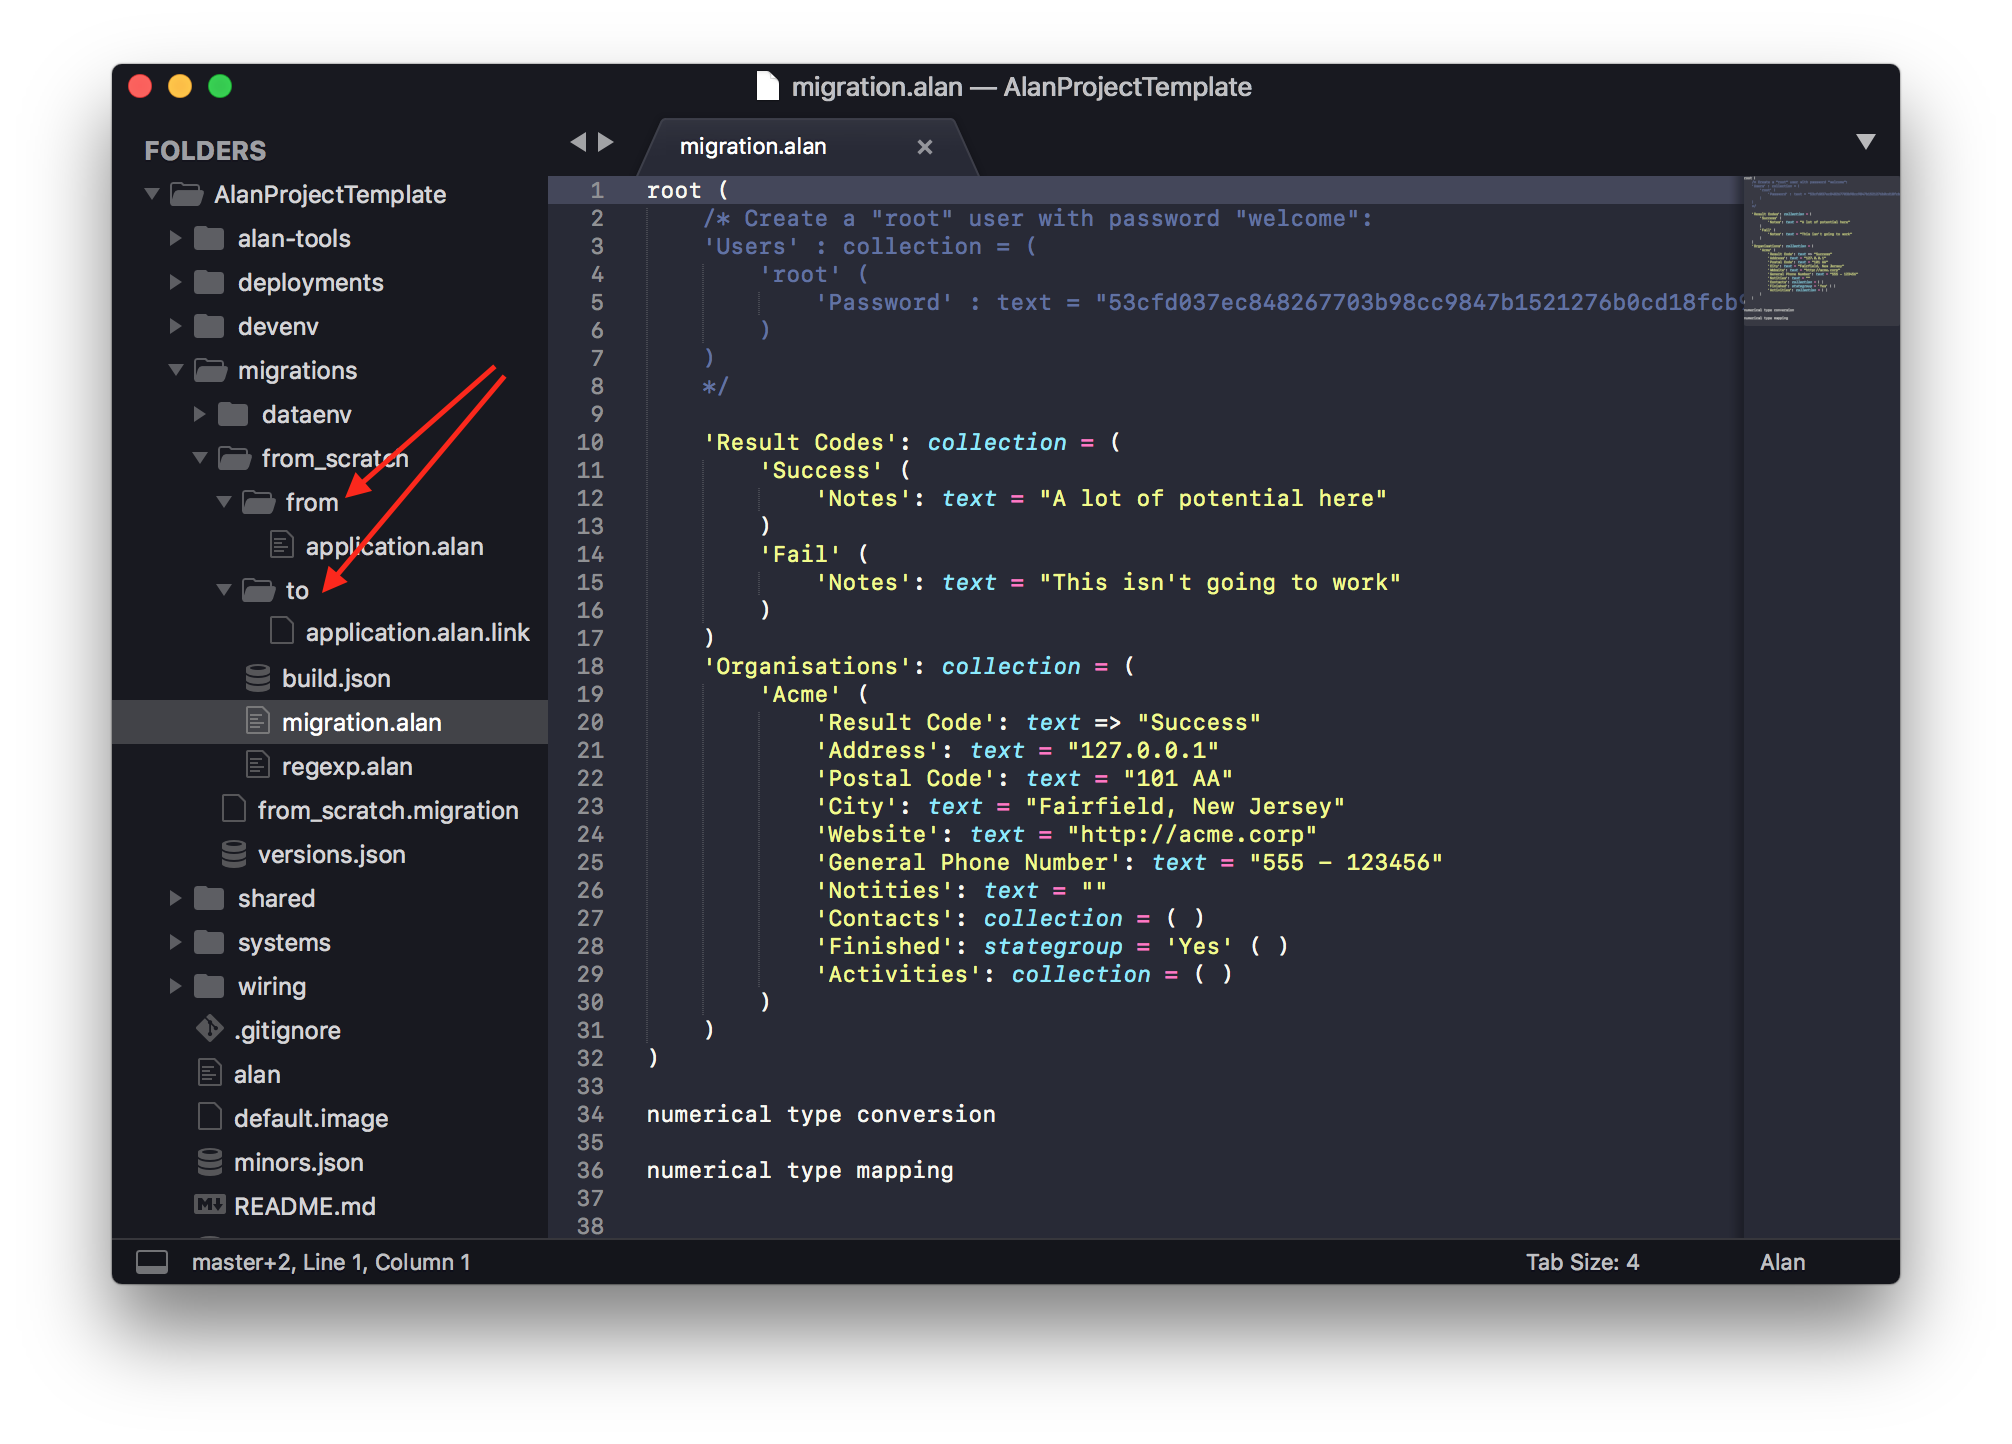
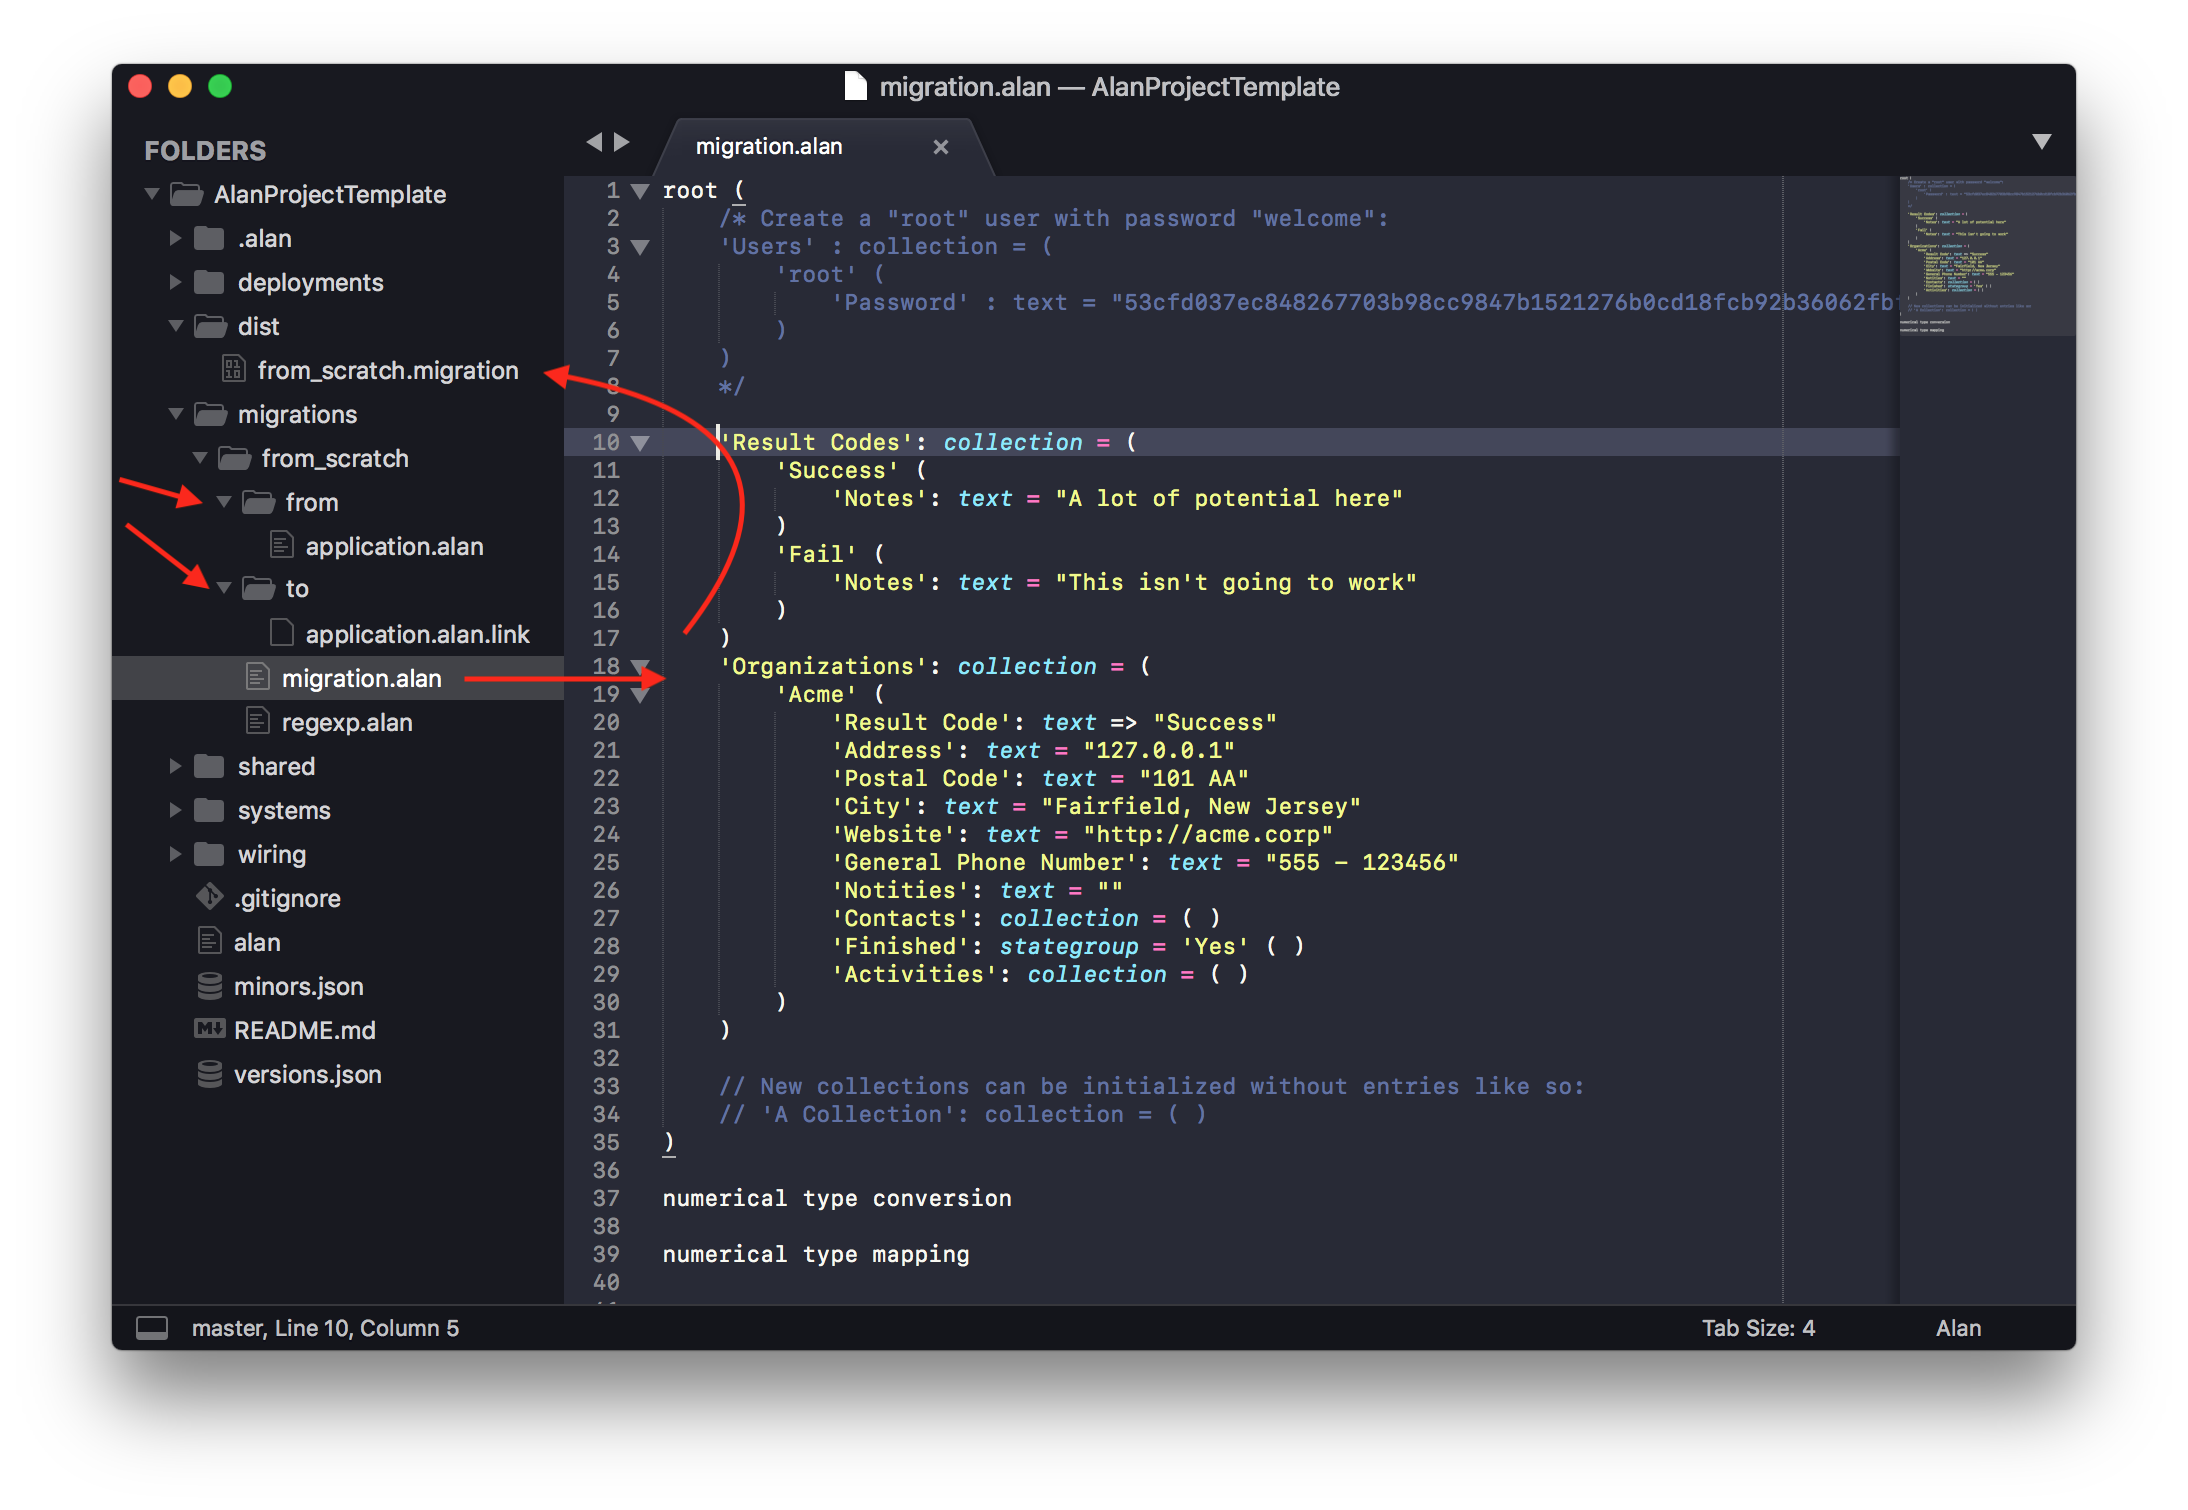
update migration docs

Changed region(s): [[0.0308, 0.0312, 0.9553, 0.9037], [0.339, 0.4363, 0.6779, 0.6856], [0.6779, 0.5921, 0.7087, 0.6233]]

diff --git a/pages/tuts/migration.md b/pages/tuts/migration.md
@@ -17,14 +17,14 @@ To start a server system, you need to feed it a valid initial dataset. To get th
 
 First build your project. This ensures you have a working application model to migrate to.
 
-In the template project we already set up a basic "from scratch" migration in the "migrations" folder. We'll continue working in that directory.
+In the template project we already set up a basic "from scratch" migration in the "migrations" folder.
 
 You'll notice two other folders, "to" and "from", which should contain the application models you're migrating between. "To" represents the current model, so it contains a file "application.alan.link" with a path to the model. 
 "From" represents an empty data set, so the "application.alan" file there has only the basic layout.
 
 ![](migration1.png)
 
-We can check our set up here works by running `alan build`. If it works it creates a new "from_scratch.migration" package file.
+We can check our set up here works by running `./alan build -C migrations`. If it works it creates a new "from_scratch.migration" package file in the dist directory.
 
 ![](migration2.png)
 
@@ -32,11 +32,11 @@ Now we're ready to start modifying the migration.alan file. In this file you map
 
 The template project defines initial entries and their values for the `Result Codes` and `Organizations` collections. You can try modifying those values to get a feel for it. 
 
-The migration language is part of the datastore system and its documentation can be found [here](http://127.0.0.1:4000/docs/#important-languages).
+The migration language is part of the datastore system and its documentation can be found [here](/docs/#important-languages).
 
 ## Users
 
-You can create as much data as you want, but usually it's easier to leave all collections empty. E.g `'Years': dictionary = { }`. Depending on the complexity and structure of your model, you probably end up with a very small migration.
+You can create as much data as you want, but usually it's easier to leave all collections empty. E.g `'Years': dictionary = ( )`. Depending on the complexity and structure of your model, you probably end up with a very small migration.
 
 If your model has users, you will need a first user to get into the application at all. To create this first user, we initialize the Users dictionary with a single entry "root", with the password "welcome". The following command provides us with the hashed (and lightly salted) password string:
 ```sh
@@ -45,19 +45,20 @@ echo -n "rootwelcome" | shasum -a 256
 
 The resulting initial Users dictionary for the Hours application looks like this:
 ```js
-'Users' : dictionary = {
-  'root' {
-    'Contracts' : dictionary = { }
+'Users' : collection = (
+  'root' (
+    'Contracts' : collection = ( )
     'Name' : text = ""
[1 lines of base64/hex data omitted]
-    'Roles' : group = {
-      'Employee' : stategroup = 'Yes' { }
-      'Manager' : stategroup = 'Yes' { }
-      'Project Manager' : stategroup = 'Yes' { }
-      'Reviewer' : stategroup = 'Yes' { }
-    }
-  }
-}
+    'Roles' : group = (
+      'Employee' : stategroup = 'Yes' ( )
+      'Manager' : stategroup = 'Yes' ( )
+      'Project Manager' : stategroup = 'Yes' ( )
+      'Reviewer' : stategroup = 'Yes' ( )
+    )
+  )
+)
+'Years' : collection = ( )
 ```
 
 ## Dry run
@@ -66,5 +67,5 @@ To test your migration in a "dry run", run the migration engine on a dataset (e.
 
 ```sh
 mkdir from_scratch/data/ && \
-./dataenv/system-types/datastore/tools/migration-engine from_scratch.migration < ../deployments/default/instances/server/instance.json > from_scratch/data/out.json
+./.alan/dataenv/system-types/datastore/tools/migration-engine dist/from_scratch.migration < deployments/default/instances/server/instance.json > migrations/from_scratch/data/out.json
 ```
